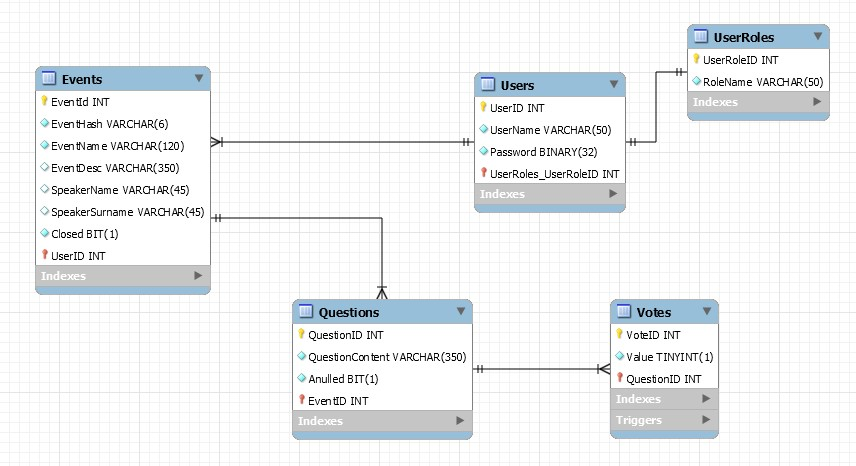
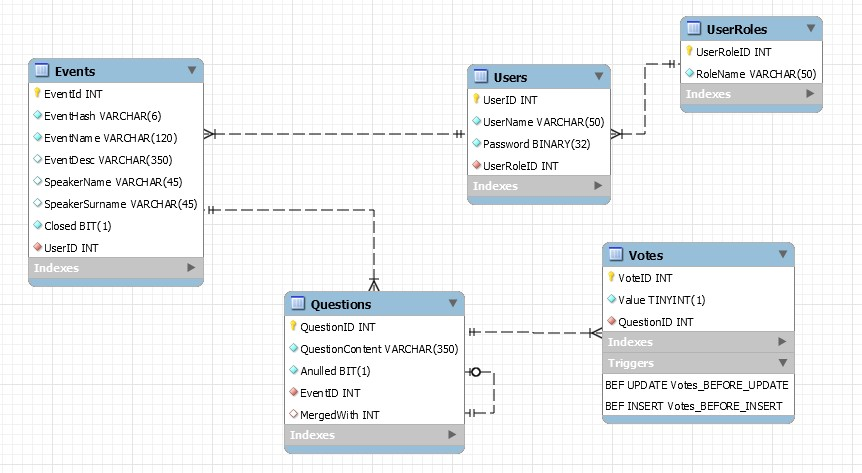
Part of work with EF

Changed region(s): [[0.0304, 0.03, 0.972, 0.9614]]

diff --git a/AskSpeakerServer/AskSpeakerServer/EntityFramework/Events.cs b/AskSpeakerServer/AskSpeakerServer/EntityFramework/Events.cs
@@ -1,0 +1,73 @@
+using System;
+using System.ComponentModel.DataAnnotations;
+using System.ComponentModel;
+using System.ComponentModel.DataAnnotations.Schema;
+using System.Collections.Generic;
+
+namespace AskSpeakerServer {
+	public class Events {
+
+		public Events(){
+			Closed = false;
+			Questions = new HashSet<Questions>();
+		}
+
+		[Key]
+		public int EventID {
+			get;
+			set;
+		}
+
+		[StringLength(6)]
+		public string EventHash {
+			get;
+			set;
+		}
+
+		[MaxLength(120)]
+		public string EventName {
+			get;
+			set;
+		}
+
+		[MaxLength(350)]
+		public string? EventDesc {
+			get;
+			set;
+		}
+
+		[MaxLength(45)]
+		public string? SpeakerName {
+			get;
+			set;
+		}
+
+		[MaxLength(45)]
+		public string? SpeakerSurname {
+			get;
+			set;
+		}
+
+		public bool Closed {
+			get;
+			set;
+		}
+
+		[ForeignKey("Users")]
+		public int UserID {
+			get;
+			set;
+		}
+
+		public virtual Users User {
+			get;
+			set;
+		}
+
+		public virtual ICollection<Questions> Questions {
+			get;
+			set;
+		}
+	}
+}
+

diff --git a/AskSpeakerServer/AskSpeakerServer/EntityFramework/Questions.cs b/AskSpeakerServer/AskSpeakerServer/EntityFramework/Questions.cs
@@ -1,0 +1,58 @@
+using System;
+using System.ComponentModel.DataAnnotations;
+using System.ComponentModel.DataAnnotations.Schema;
+using System.Collections.Generic;
+
+namespace AskSpeakerServer {
+	public class Questions {
+		public Questions () {
+			Anulled = false;
+			Votes = new HashSet<Votes>();
+		}
+
+		[Key]
+		public int QuestionID {
+			get;
+			set;
+		}
+
+		[MaxLength(350)]
+		public string QuestionContent {
+			get;
+			set;
+		}
+
+		public bool Anulled { 
+			get; 
+			set; 
+		}
+
+		[ForeignKey("Events")]
+		public int EventID {
+			get;
+			set;
+		}
+
+		[ForeignKey("Questions")]
+		public int MergedWith {
+			get;
+			set;
+		}
+
+		public virtual Events Event { 
+			get;
+			set;
+		}
+
+		public virtual Questions Merged { 
+			get;
+			set;
+		}
+
+		public virtual ICollection<Votes> Votes {
+			get;
+			set;
+		}
+	}
+}
+

diff --git a/AskSpeakerServer/AskSpeakerServer/EntityFramework/Users.cs b/AskSpeakerServer/AskSpeakerServer/EntityFramework/Users.cs
@@ -1,10 +1,15 @@
 using System;
 using System.ComponentModel.DataAnnotations;
 using System.ComponentModel.DataAnnotations.Schema;
+using System.Collections.Generic;
 
 namespace AskSpeakerServer {
 	public class Users {
-		
+
+		public Users(){
+			Events = new HashSet<Events>();
+		}
+
 		[Key]
 		public int UserID {
 			get;
@@ -24,13 +29,18 @@ namespace AskSpeakerServer {
 		}
 
 		[ForeignKey("UserRoles")]
-		public int UserRoles_UserRoleID {
+		public int UserRoleID {
 			get;
 			set;
 		}
 
 		public virtual UserRoles UserRole { 
 			get; 
+			set;
+		}
+
+		public virtual ICollection<Events> Events {
+			get;
 			set;
 		}
 

diff --git a/AskSpeakerServer/AskSpeakerServer/EntityFramework/Votes.cs b/AskSpeakerServer/AskSpeakerServer/EntityFramework/Votes.cs
@@ -1,0 +1,36 @@
+using System;
+using System.ComponentModel.DataAnnotations;
+using System.ComponentModel.DataAnnotations.Schema;
+
+namespace AskSpeakerServer {
+	public class Votes {
+
+		private short ValueStored;
+
+		[Key]
+		public int VoteID {
+			get;
+			set;
+		}
+
+		public short Value { 
+			get {
+				return ValueStored;
+			}
+
+			set { 
+				if(value == 1 || value == -1){
+					ValueStored = value;
+				} else 
+					throw new ArgumentException("Value must be in set {-1, 1}");
+			}
+		}
+
+		[ForeignKey("Questions")]
+		public int QuestionID {
+			get;
+			set;
+		}
+	}
+}
+
